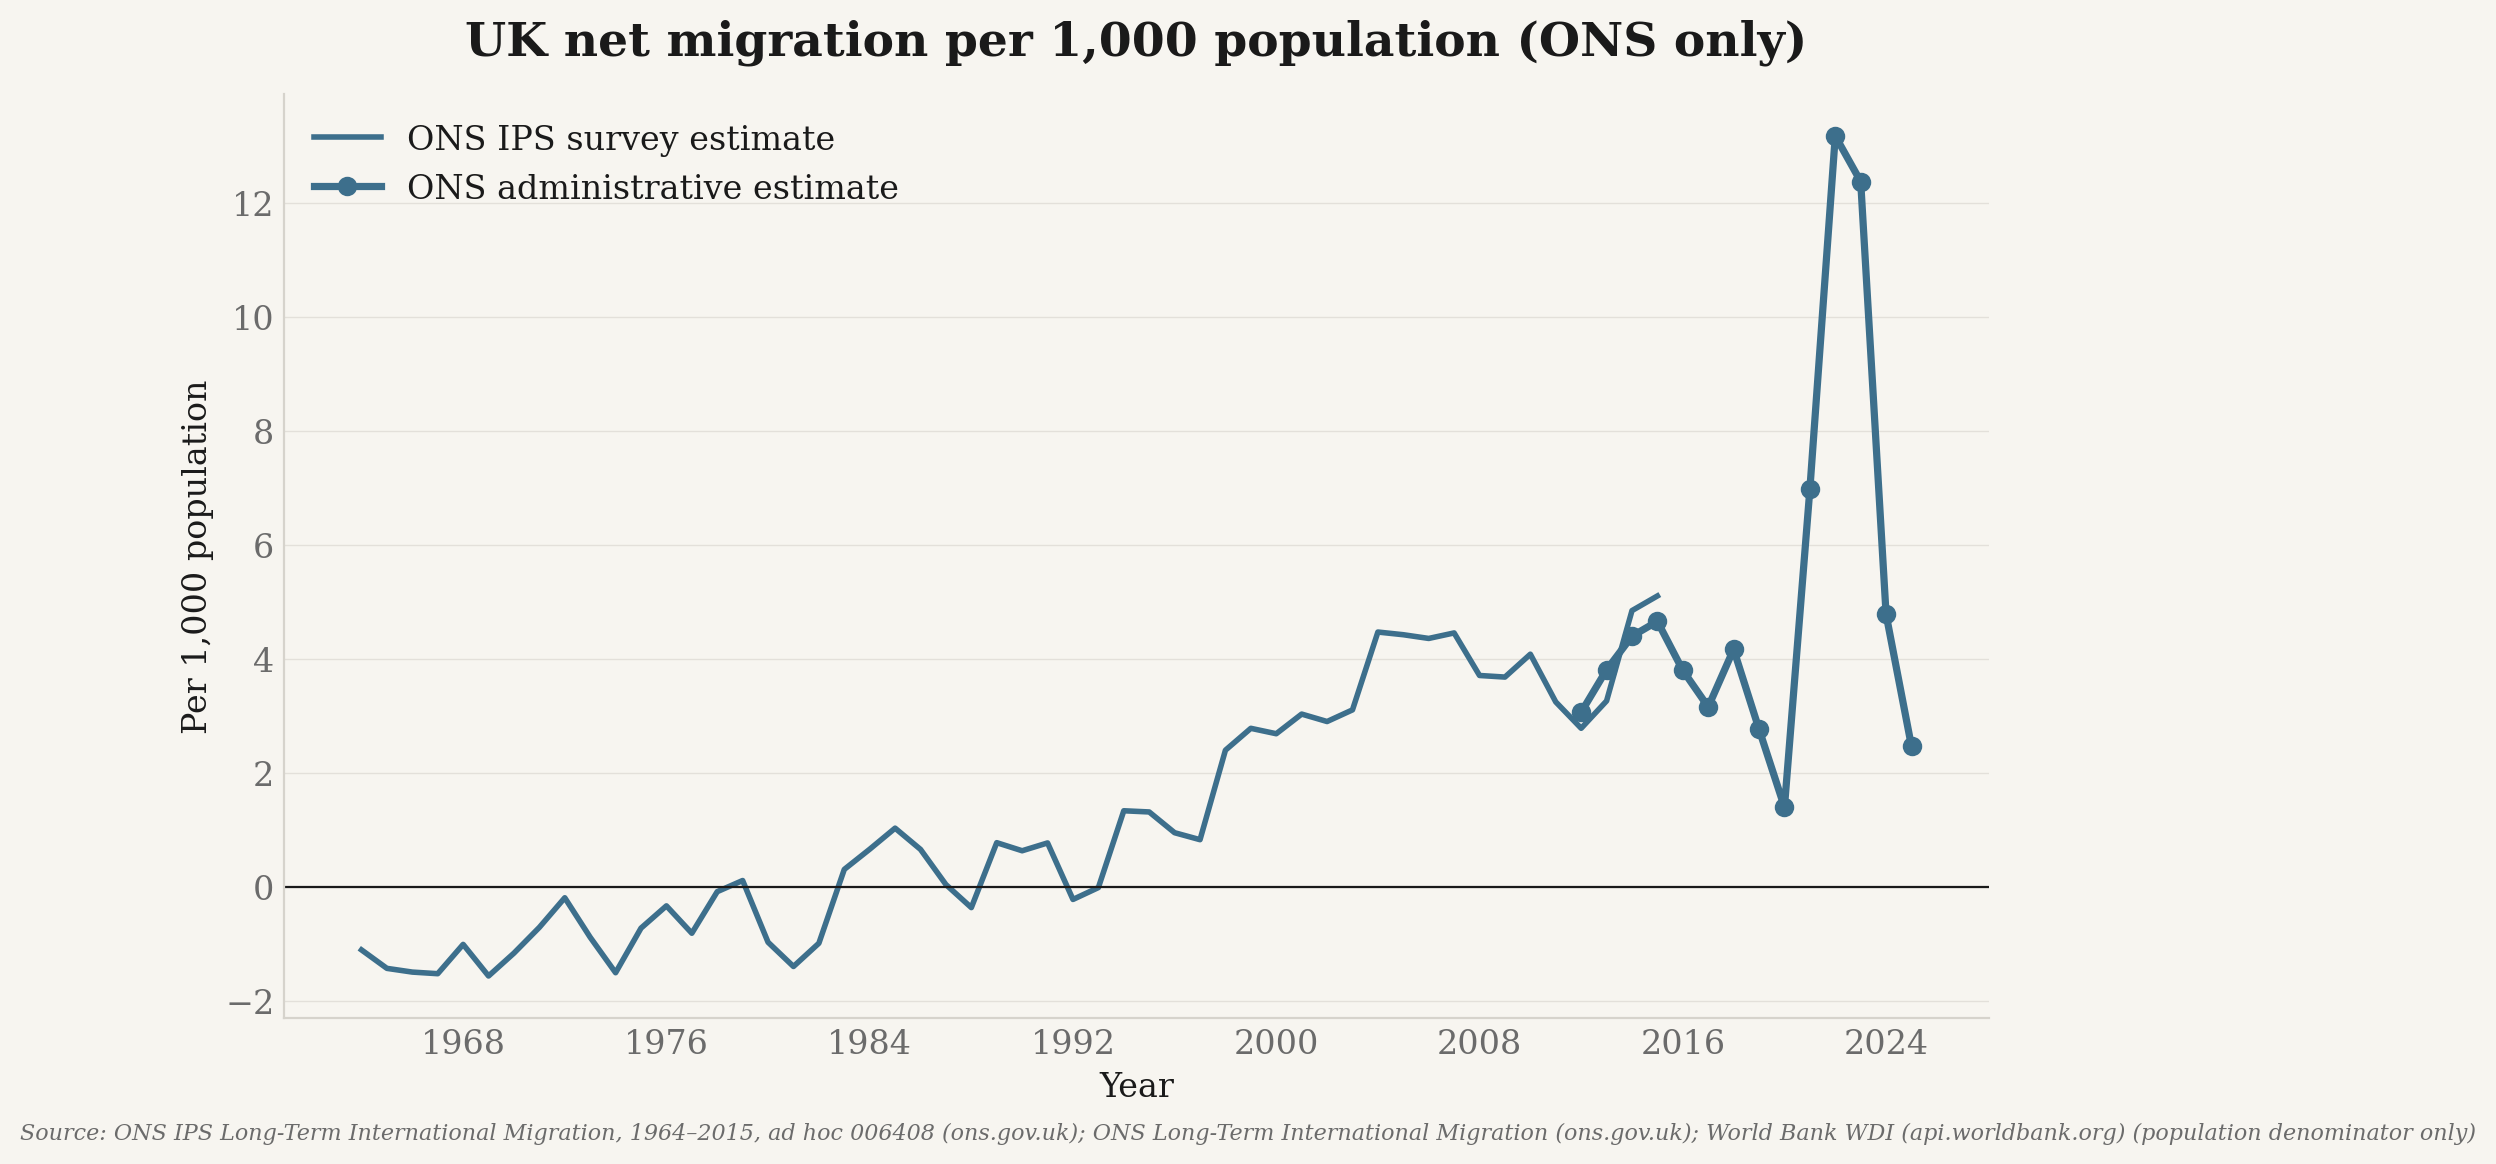
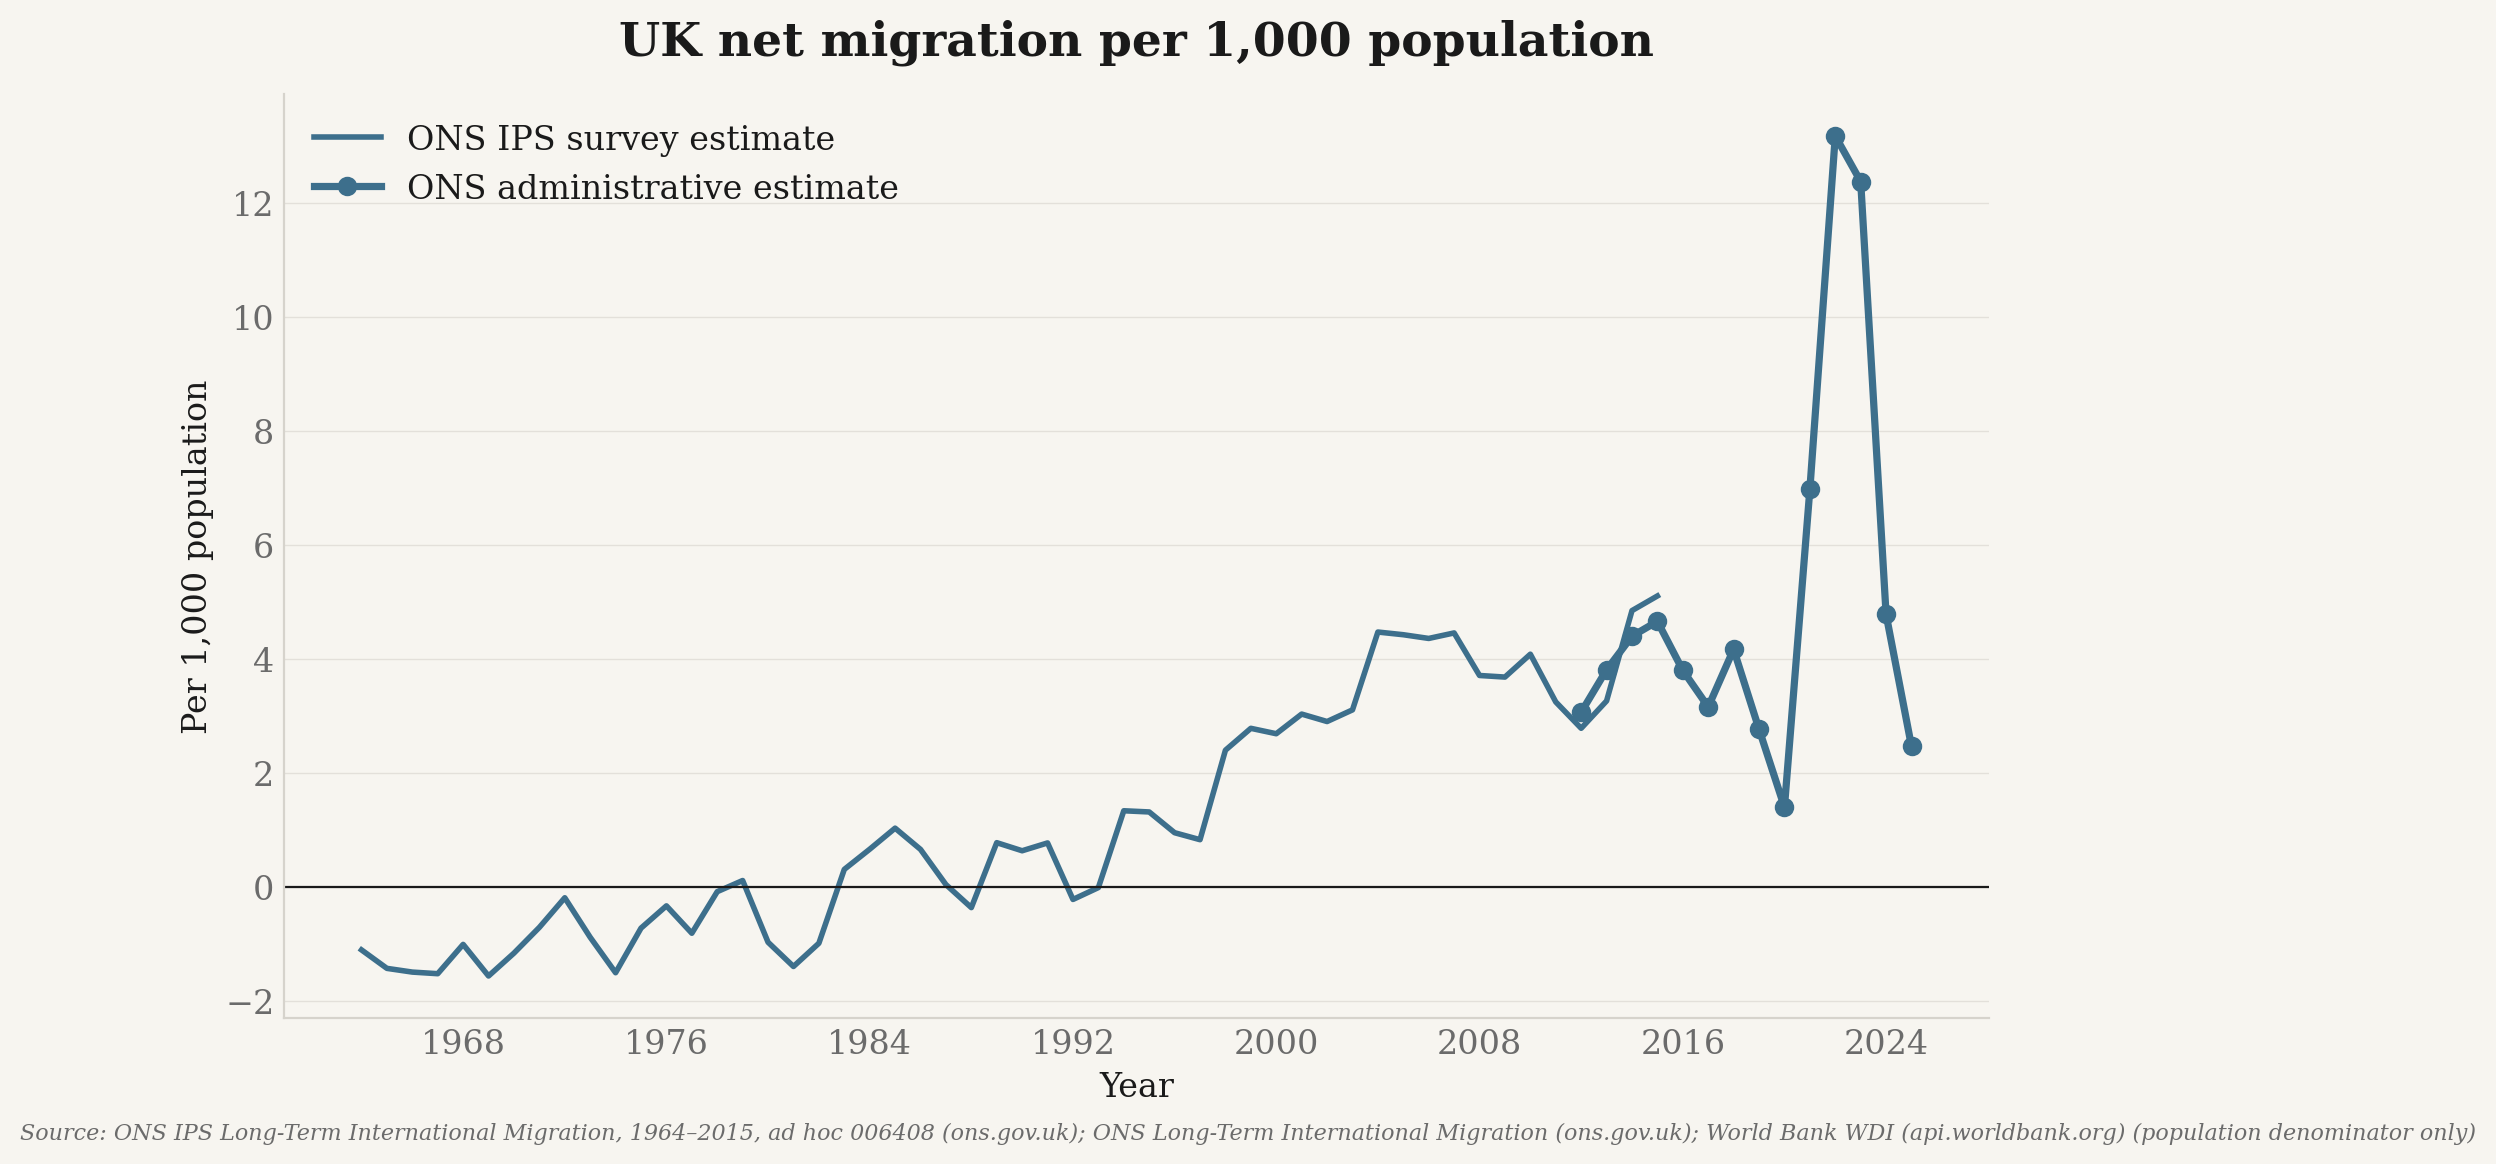
immigration

Changed region(s): [[0.1875, 0.0, 0.7188, 0.0619]]

diff --git a/uk_migration/charts.py b/uk_migration/charts.py
@@ -134,7 +134,7 @@ def chart_immigration(df: pd.DataFrame) -> Path:
         ax, df, "immigration_by_origin", "immigration"
     )
     _annotate_peak_and_latest(ax, admin)
-    _style_title(ax, "UK long-term immigration over time (ONS only)")
+    _style_title(ax, "UK long-term immigration over time")
     ax.set_xlabel("Year")
     ax.set_ylabel("Immigration per year")
     ax.legend(loc="upper left", frameon=False)
@@ -149,7 +149,7 @@ def chart_net_migration(df: pd.DataFrame) -> Path:
     )
     _annotate_peak_and_latest(ax, admin)
     ax.axhline(0, color=SUBSTACK_TEXT, linewidth=0.8)
-    _style_title(ax, "UK net long-term migration over time (ONS only)")
+    _style_title(ax, "UK net long-term migration over time")
     ax.set_xlabel("Year")
     ax.set_ylabel("People (net)")
     ax.legend(loc="upper left", frameon=False)
@@ -242,7 +242,7 @@ def chart_net_migration_per_capita(df: pd.DataFrame) -> Path:
             label="ONS administrative estimate",
         )
     ax.axhline(0, color=SUBSTACK_TEXT, linewidth=0.8)
-    _style_title(ax, "UK net migration per 1,000 population (ONS only)")
+    _style_title(ax, "UK net migration per 1,000 population")
     ax.set_xlabel("Year")
     ax.set_ylabel("Per 1,000 population")
     ax.legend(loc="upper left", frameon=False)
